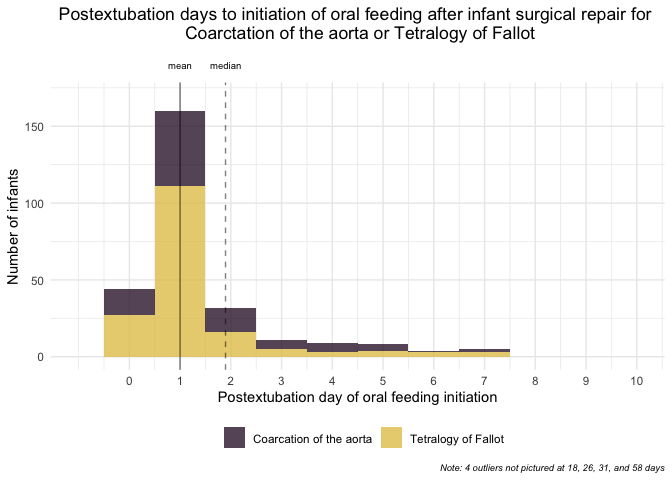
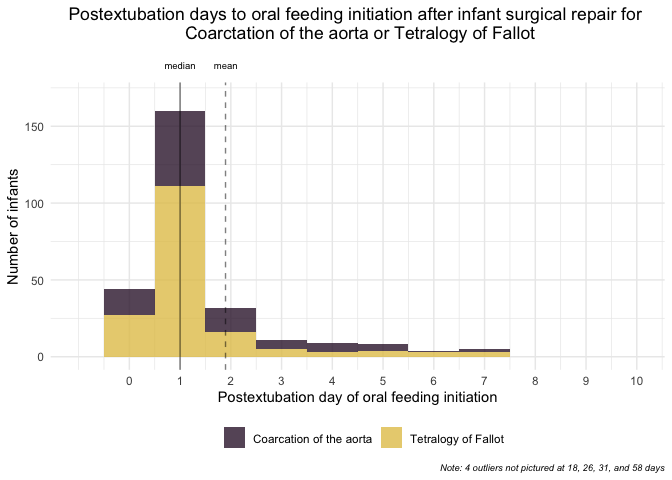
Fix typo

Changed region(s): [[0.0938, 0.0, 0.9688, 0.0625], [0.3125, 0.125, 0.375, 0.1562], [0.25, 0.125, 0.2812, 0.1562]]

diff --git a/rq1_vis.md b/rq1_vis.md
@@ -43,7 +43,7 @@ p <- ggplot() +
     breaks = seq(0, 10, 1), lim = c(-1, 10)
   ) +
   labs(
-    title = "Postextubation days to initiation of oral feeding after infant surgical repair for \n Coarctation of the aorta or Tetralogy of Fallot",
+    title = "Postextubation days to oral feeding initiation after infant surgical repair for \n Coarctation of the aorta or Tetralogy of Fallot",
     caption = "Note: 4 outliers not pictured at 18, 26, 31, and 58 days"
   ) +
   xlab("Postextubation day of oral feeding initiation") +
@@ -58,7 +58,7 @@ df_stats <- df_final %>%
 
 # Add mean and median lines to original ggplot
 p +
-  geom_vline( # Add mean line
+  geom_vline( # Add mean line 
     data = df_stats,
     aes(xintercept = mean),
     col = "black",
@@ -72,9 +72,9 @@ p +
     linetype = "solid",
     alpha = 0.5
   ) +
-  annotate("text", x = 1, y = 190, label = "mean", size = 2.5) + # Add label
-  annotate("text", x = 1.90, y = 190, label = "median", size = 2.5) + # Add label
-  coord_cartesian(ylim = c(0, 170), clip = "off") # Allow for annotation outside of the plot
+  annotate("text", x = 1, y = 190, label = "median", size = 2.5) + # Add label
+  annotate("text", x = 1.90, y = 190, label = "mean", size = 2.5) + # Add label
+  coord_cartesian(ylim = c(0, 170), clip = "off") # Allow for annotation outside of the plot 
 ```
 
 <img src="rq1_vis_files/figure-gfm/unnamed-chunk-2-1.png" style="display: block; margin: auto;" />
